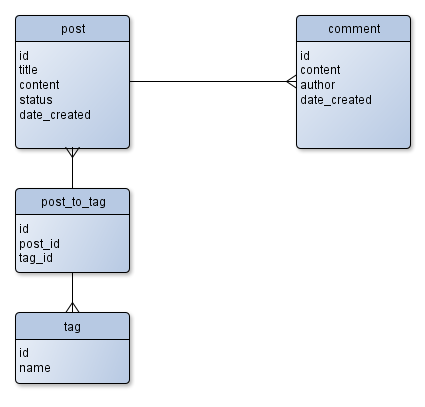
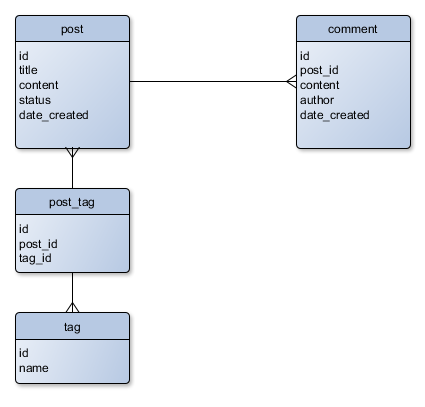
Fixed some mistakes in doctrine chapter

diff --git a/data/contents_ad.js b/data/contents_ad.js
@@ -1,0 +1,10 @@
+<script async src="//pagead2.googlesyndication.com/pagead/js/adsbygoogle.js"></script>
+<!-- Using Zend Framework 3 - Contents - Adaptive -->
+<ins class="adsbygoogle"
+     style="display:block"
+     data-ad-client="ca-pub-3933778336056438"
+     data-ad-slot="4379339122"
+     data-ad-format="auto"></ins>
+<script>
+(adsbygoogle = window.adsbygoogle || []).push({});
+</script>
